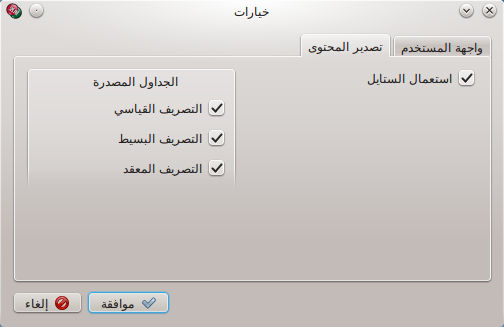
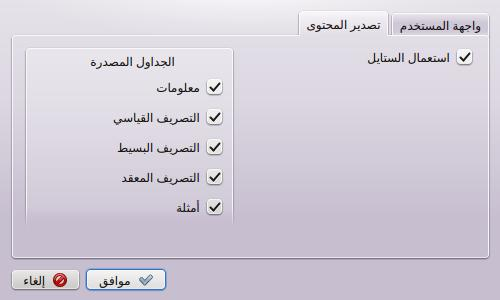
update arabic help

diff --git a/jpconj/Media/help/ar/gui.html b/jpconj/Media/help/ar/gui.html
@@ -21,8 +21,8 @@
 <li><a href="#menubar">شريط القوائم</a></li>
 <li><a href="#toolbars">أشرطة الأدوات</a></li>
 <li><a href="#search">لوحة البحث</a></li>
-<li><a href="#type">نوع الفعل</a></li>
 <li><a href="#result">نتيجة التصريف</a></li>
+<li><a href="#exp">أمثلة</a></li>
 </ol>
 إضافة إلى ذلك، واجهة المستخدم مترجمة إلى لغات أخرى غير العربية: الإنكليزية والفرنسية واليابانية.
 <br>
@@ -77,7 +77,13 @@
 بعدها يمكنك الضغط على "عودة" في لوحة المفاتيح، أو على زر "تصريف" للحصول على النتيجة.
 </p>
 
-<h2 id="type">نوع الفعل</h2>
+<h2 id="result">نتيجة التصريف</h2>
+<p>
+النتيجة تحتوي على ثلاثة جداول:
+</p>
+
+
+<h4>معلومات الفعل</h4>
 <p>
 التطبيق يعطيك معلومات حول الفعل المدخل.
 إن لم يكن الفعل متوفرا في قاعدة البيانات، ستظهر لك رسالة تخبرك بذلك.
@@ -101,30 +107,28 @@
 <li>... إلخ.</li>
 </ul>
 </p>
+<img src="gui_info.jpg" />
 
-<h2 id="result">نتيجة التصريف</h2>
-<p>
-النتيجة تحتوي على ثلاثة جداول:
-</p>
-
-<h4>1- التصريف القياسي </h4>
+<h4> التصريف القياسي </h4>
 <p>
 يستعمل لتعلم تصريف الأفعال اليابانية.<br>
 <img src="gui_standard.jpg" />
 </p>
 
-<h4>2- التصريف البسيط</h4>
+<h4> التصريف البسيط</h4>
 <p>
 يعطينا جذوع الفعل: a e u i o و t-form.<br>
 <img src="gui_basic.jpg" />
 </p>
 
-<h4>3- التصريف المعقد</h4>
+<h4> التصريف المعقد</h4>
 <p>
 يعطينا بعضا من التصاريف المعقدة، التي يمكن الحصول عليها من التصاريف البسيطة مضاف إليها بعض اللواحق.<br>
 <img src="gui_complex.jpg" />
 </p>
 
+<h2 id="exp">أمثلة</h2>
+<img src="gui_exp.jpg" />
 
 </body>
 </html>

diff --git a/jpconj/Media/help/ar/use.html b/jpconj/Media/help/ar/use.html
@@ -3,7 +3,7 @@
   <meta charset="utf-8"/>
   <title>طريقة الاستعمال</title>
   <meta name="author" content="Karim" />
-  <meta name="date" content="2013-11-20T20:29:15+0100" /><!--yyyy/mm/dd-->
+  <meta name="date" content="2016/05/28 11:09:31" /><!--yyyy/mm/dd-->
   <meta name="email" content="kariminfo0@gmail.com"/>
   <meta name="copyright" content="http://creativecommons.org/licenses/by-sa/3.0/"/>
   <meta name="language" content="english"/>
